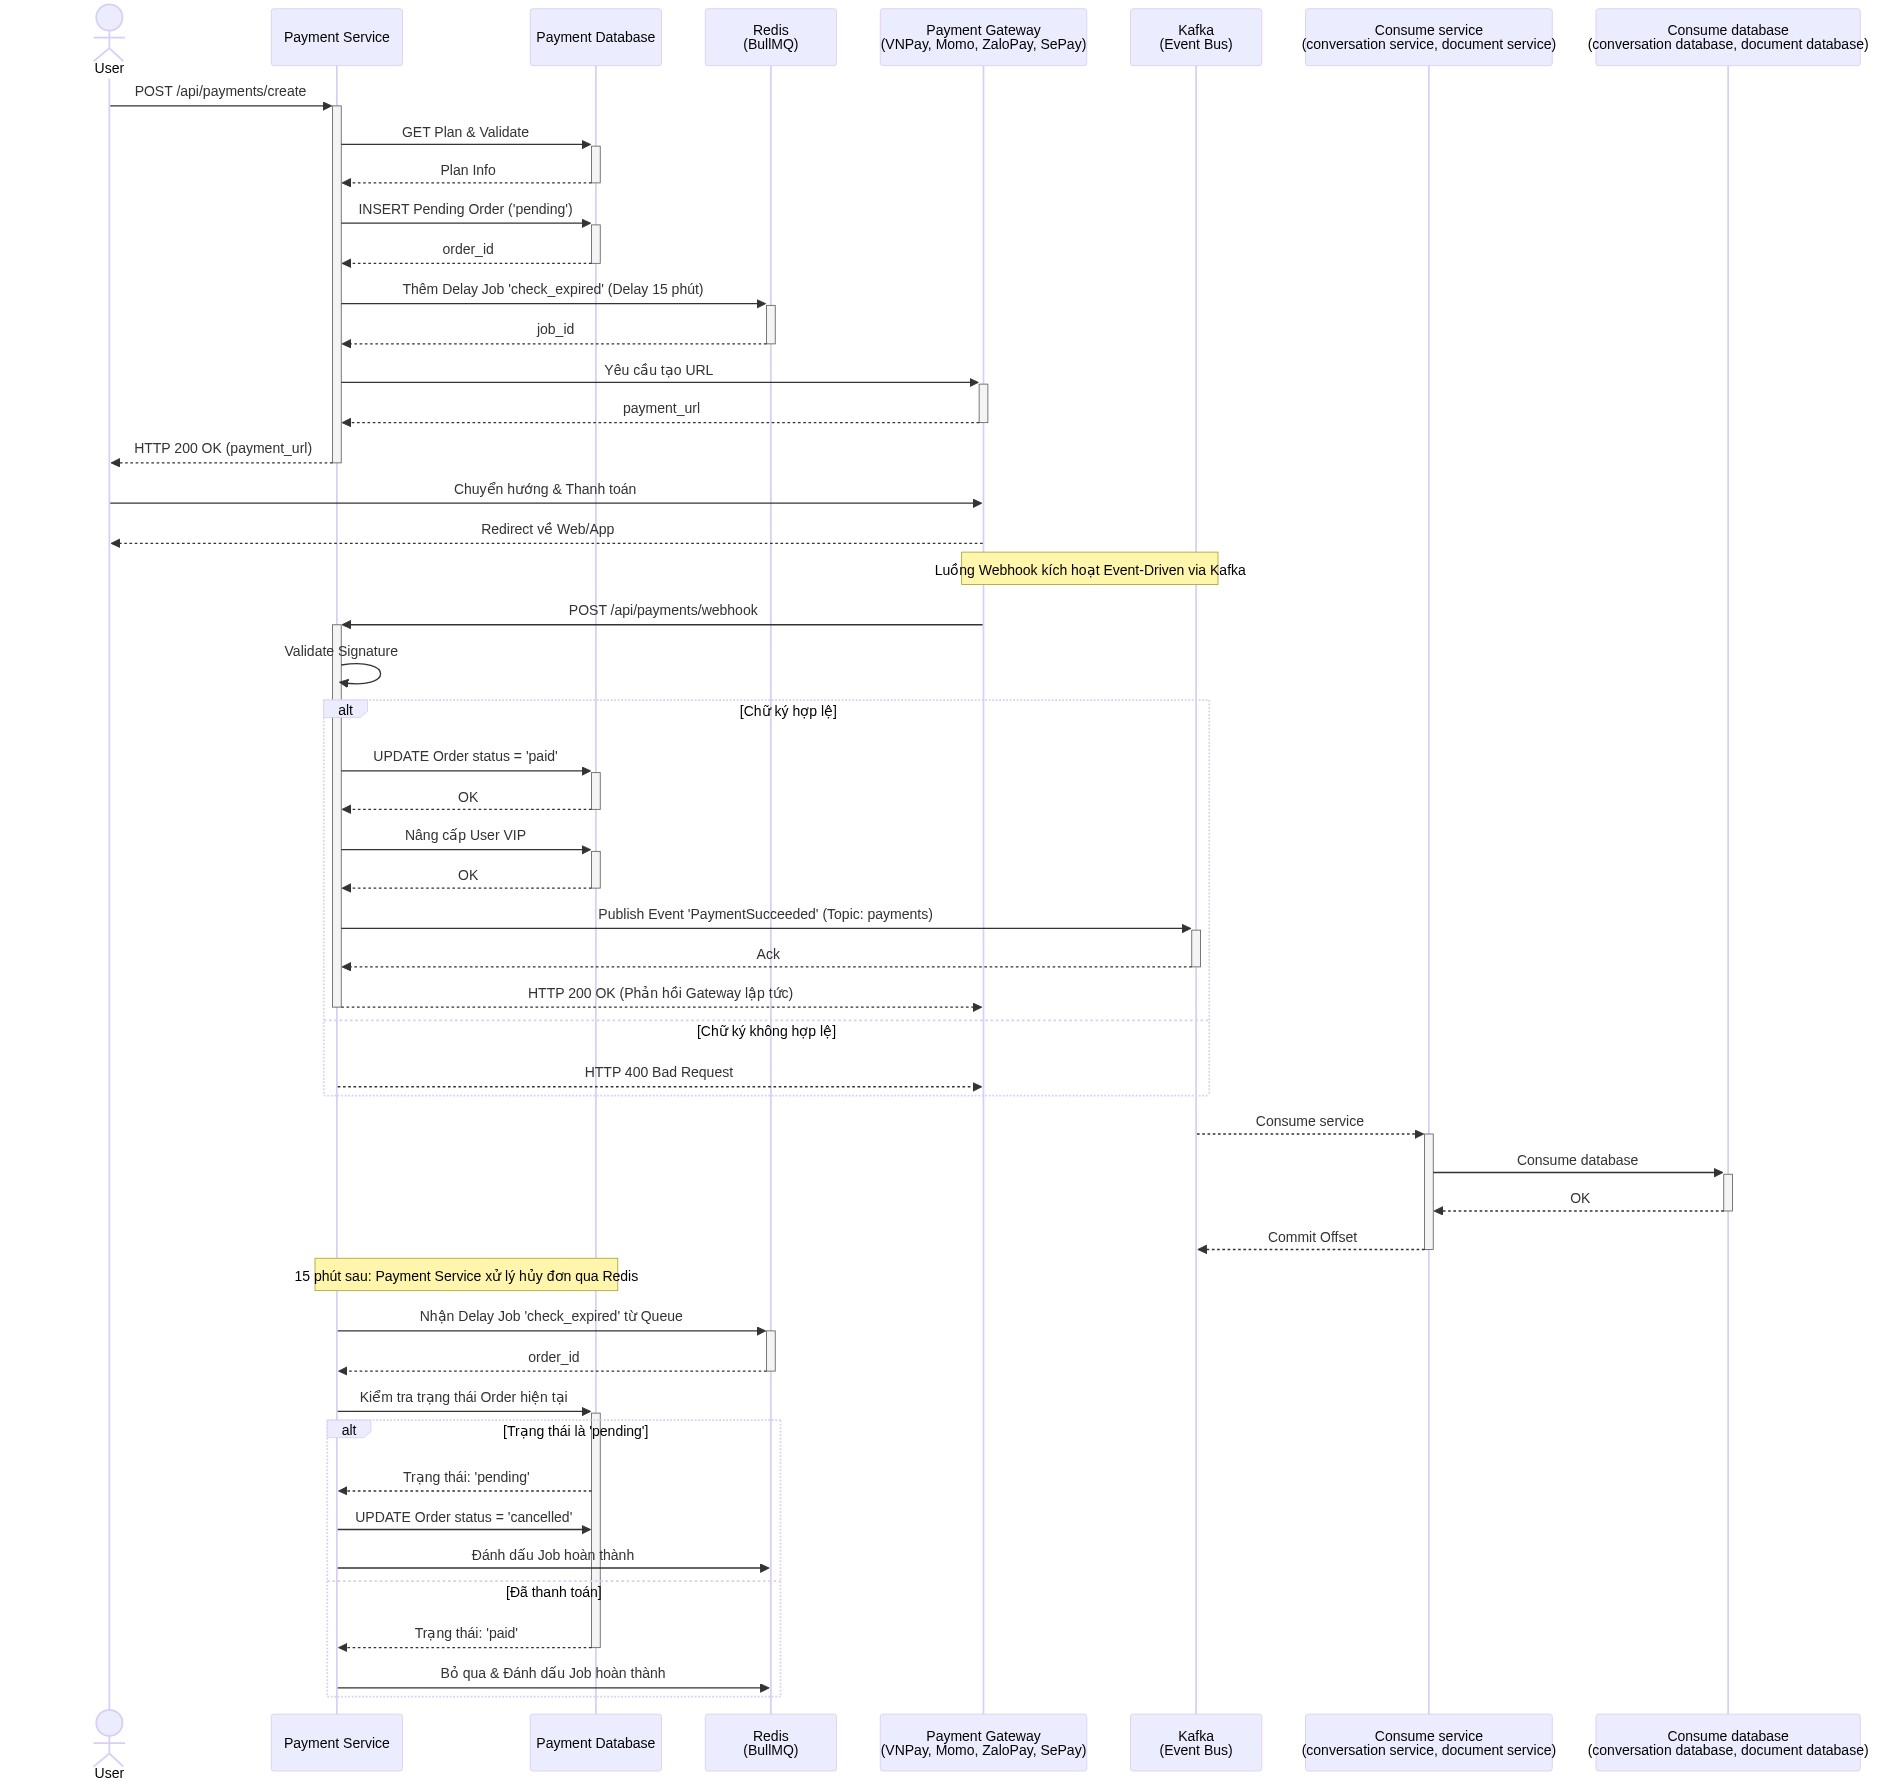
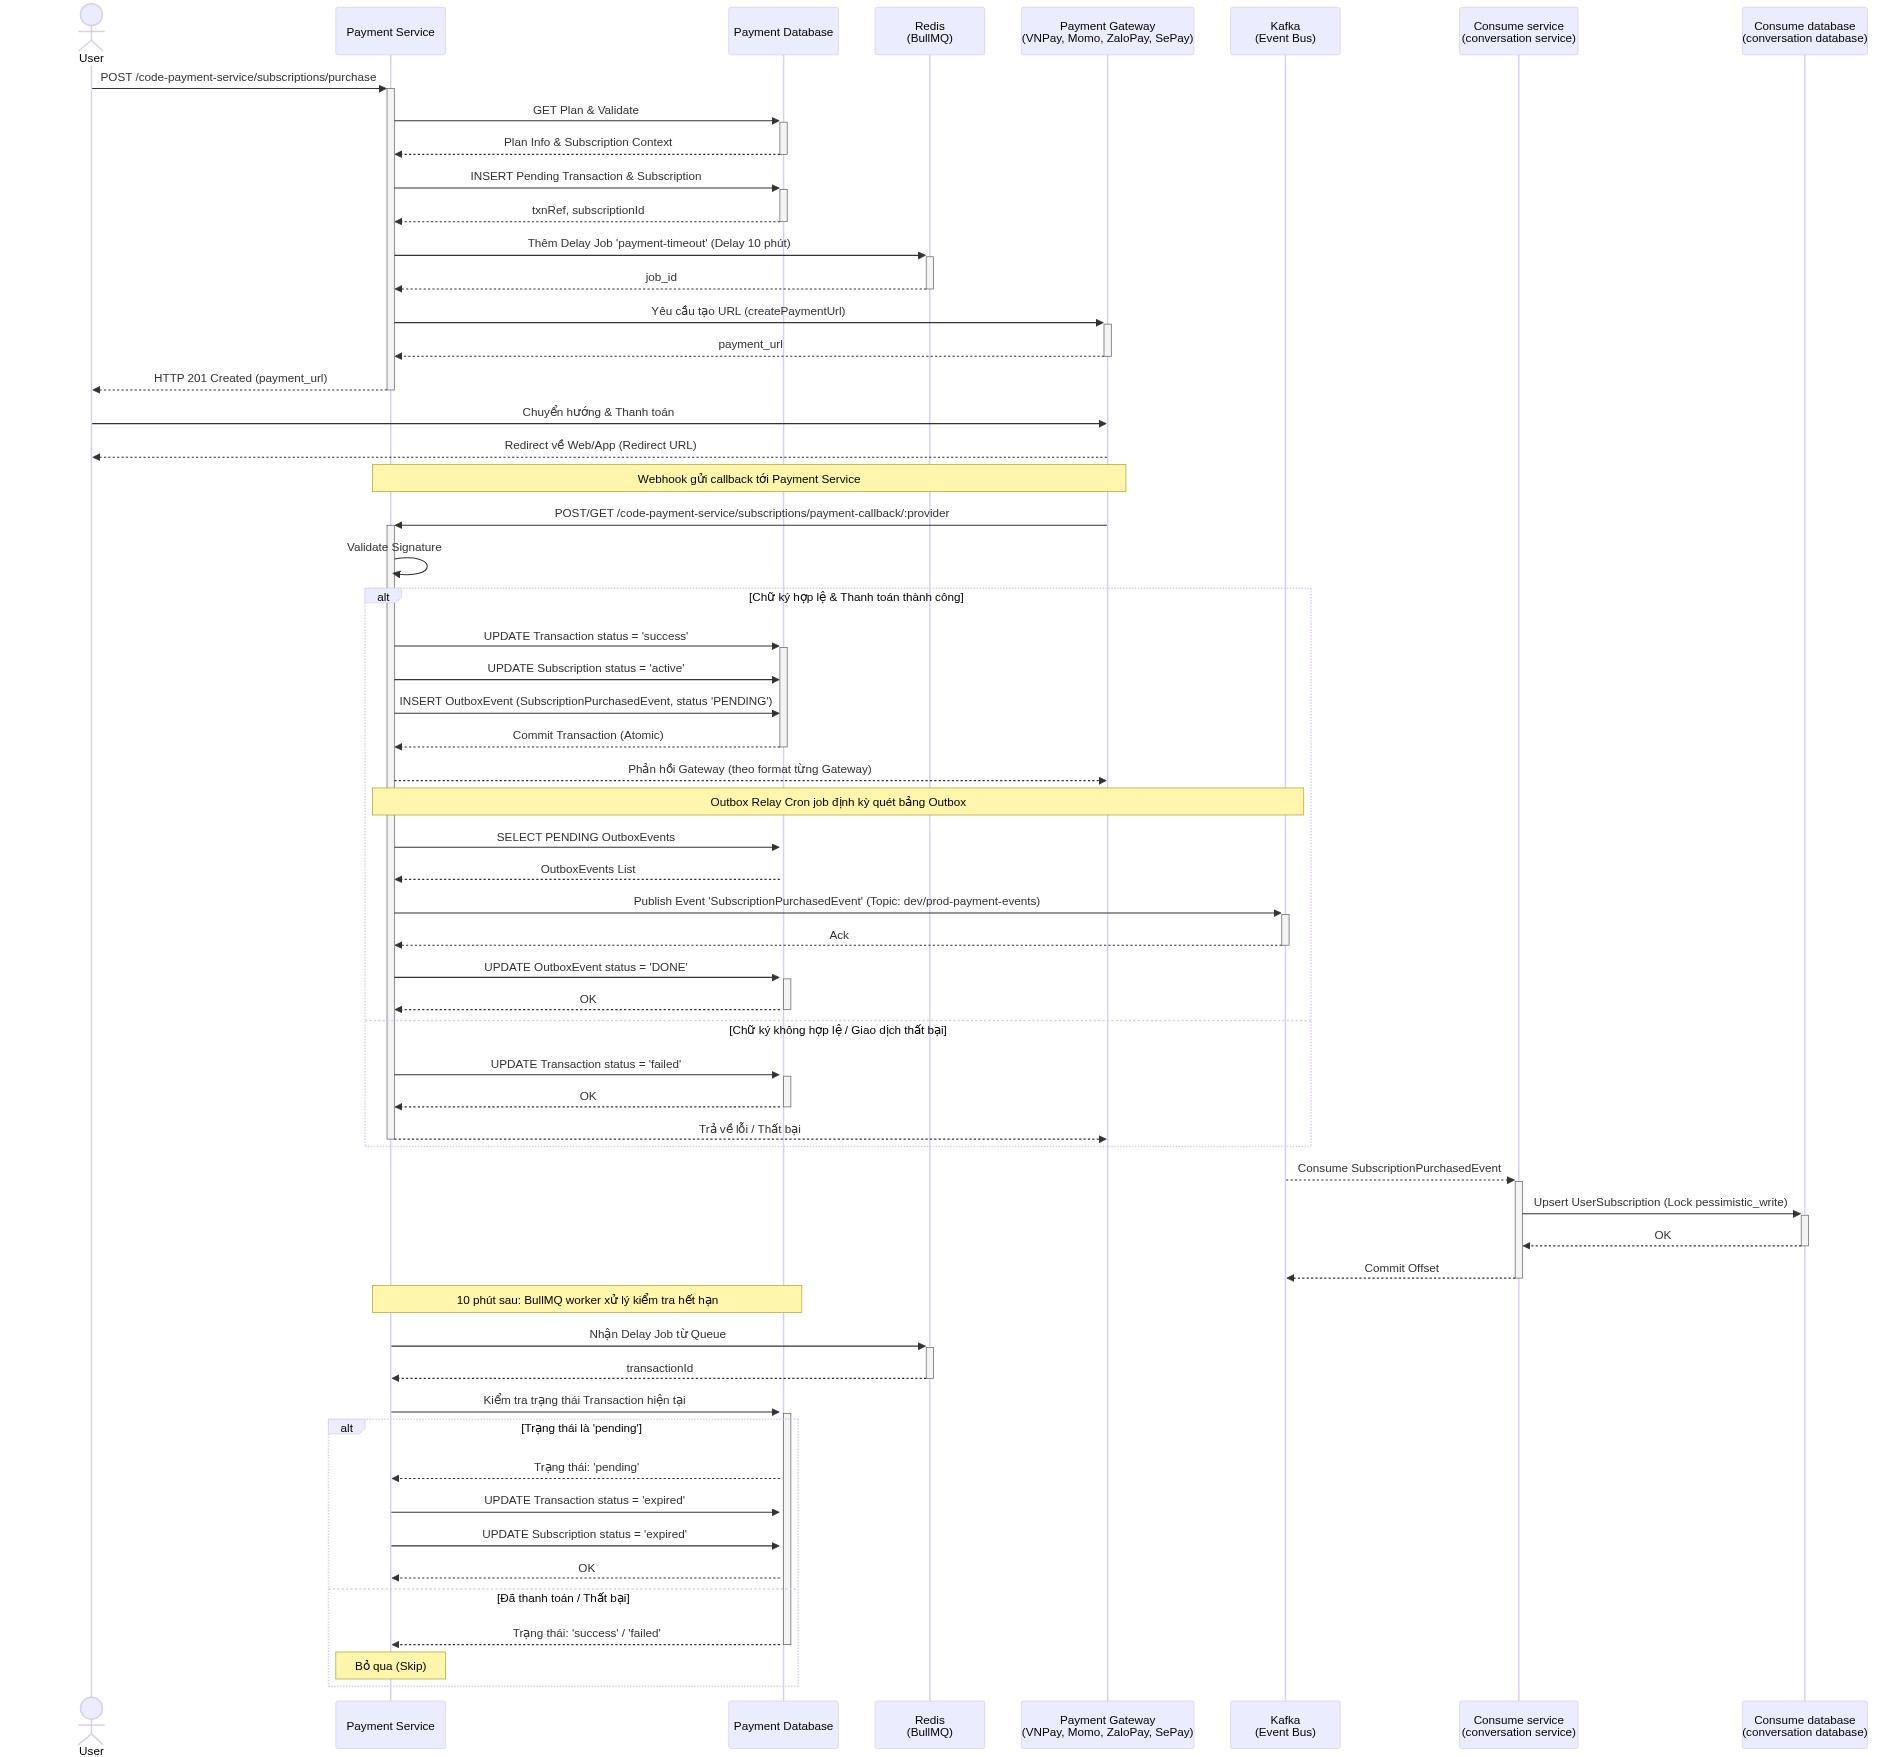
1

diff --git a/docs/1. Tổng quan đề tài/1.3. Bài toán nghiệp vụ/2.md b/docs/1. Tổng quan đề tài/1.3. Bài toán nghiệp vụ/2.md
@@ -7,3 +7,19 @@
 ![alt text](uuu.excalidraw.png)
 
 # Sơ đồ tuần tự (Sequence Diagram)
+
+
+
+
+![alt text](payment.png)
+
+![alt text](document.png)
+
+
+![alt text](conversation.png)
+
+
+
+
+
+![alt text](voice.png)
